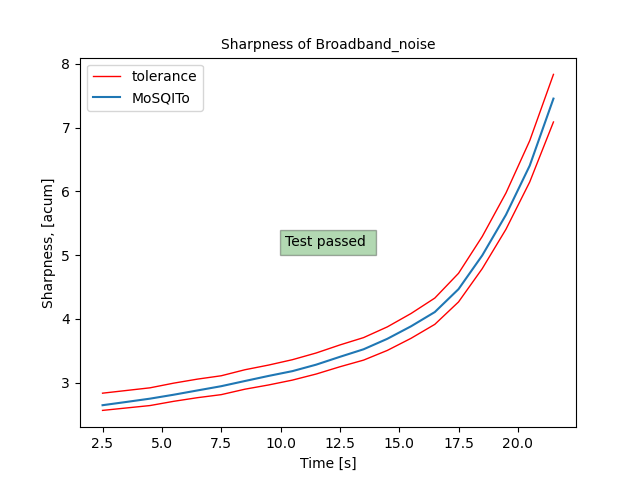
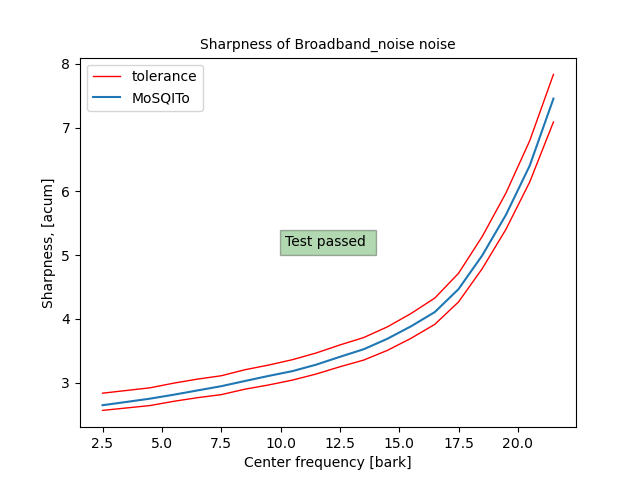
[CC] plots legend correction

Changed region(s): [[0.3125, 0.0625, 0.7188, 0.125], [0.375, 0.9375, 0.6562, 1.0]]

diff --git a/mosqito/validations/sharpness/validation_sharpness_din.py b/mosqito/validations/sharpness/validation_sharpness_din.py
@@ -17,176 +17,176 @@ from mosqito.functions.sharpness.comp_sharpness import comp_sharpness
 from mosqito.functions.shared.load import load
 
     # Signals and results from DIN 45692_2009E, chapter 6
-broadband_noise = np.zeros((20), dtype = dict)
+broadband = np.zeros((20), dtype = dict)
 
-broadband_noise[0] = {
+broadband[0] = {
             "data_file": r"data\Check_signals_DIN_45692_(Schaerfe)\Broadband_noise(fo=10kHz_fu=variabel)\LC250.wav",
             "type": "Broadband_noise",
             "S": 2.70
         }
-broadband_noise[1] = {
+broadband[1] = {
             "data_file": r"data\Check_signals_DIN_45692_(Schaerfe)\Broadband_noise(fo=10kHz_fu=variabel)\LC350.wav",
             "S": 2.74
         }
-broadband_noise[2] = {
+broadband[2] = {
             "data_file": r"data\Check_signals_DIN_45692_(Schaerfe)\Broadband_noise(fo=10kHz_fu=variabel)\LC450.wav",
             "S": 2.78
         }
-broadband_noise[3] = {
+broadband[3] = {
             "data_file": r"data\Check_signals_DIN_45692_(Schaerfe)\Broadband_noise(fo=10kHz_fu=variabel)\LC570.wav",
             "S": 2.85
         }
-broadband_noise[4] = {
+broadband[4] = {
             "data_file": r"data\Check_signals_DIN_45692_(Schaerfe)\Broadband_noise(fo=10kHz_fu=variabel)\LC700.wav",
             "S": 2.91
         }
-broadband_noise[5] = {
+broadband[5] = {
             "data_file": r"data\Check_signals_DIN_45692_(Schaerfe)\Broadband_noise(fo=10kHz_fu=variabel)\LC840.wav",
             "S": 2.96
         }
-broadband_noise[6] = {
+broadband[6] = {
             "data_file": r"data\Check_signals_DIN_45692_(Schaerfe)\Broadband_noise(fo=10kHz_fu=variabel)\LC1000.wav",
             "S": 3.05
         }
-broadband_noise[7] = {
+broadband[7] = {
             "data_file": r"data\Check_signals_DIN_45692_(Schaerfe)\Broadband_noise(fo=10kHz_fu=variabel)\LC1170.wav",
             "S": 3.12
         }
-broadband_noise[8] = {
+broadband[8] = {
             "data_file": r"data\Check_signals_DIN_45692_(Schaerfe)\Broadband_noise(fo=10kHz_fu=variabel)\LC1370.wav",
             "S": 3.20
         }
-broadband_noise[9] = {
+broadband[9] = {
             "data_file": r"data\Check_signals_DIN_45692_(Schaerfe)\Broadband_noise(fo=10kHz_fu=variabel)\LC1600.wav",
             "S": 3.30
         }
-broadband_noise[10] = {
+broadband[10] = {
             "data_file": r"data\Check_signals_DIN_45692_(Schaerfe)\Broadband_noise(fo=10kHz_fu=variabel)\LC1850.wav",
             "S": 3.42
         }
-broadband_noise[11] = {
+broadband[11] = {
             "data_file": r"data\Check_signals_DIN_45692_(Schaerfe)\Broadband_noise(fo=10kHz_fu=variabel)\LC2150.wav",
             "S": 3.53
         }
-broadband_noise[12] = {
+broadband[12] = {
             "data_file": r"data\Check_signals_DIN_45692_(Schaerfe)\Broadband_noise(fo=10kHz_fu=variabel)\LC2500.wav",
             "S": 3.69
         }
-broadband_noise[13] = {
+broadband[13] = {
             "data_file": r"data\Check_signals_DIN_45692_(Schaerfe)\Broadband_noise(fo=10kHz_fu=variabel)\LC2900.wav",
             "S": 3.89
         }
-broadband_noise[14] = {
+broadband[14] = {
             "data_file": r"data\Check_signals_DIN_45692_(Schaerfe)\Broadband_noise(fo=10kHz_fu=variabel)\LC3400.wav",
             "S": 4.12
         }
-broadband_noise[15] = {
+broadband[15] = {
             "data_file": r"data\Check_signals_DIN_45692_(Schaerfe)\Broadband_noise(fo=10kHz_fu=variabel)\LC4000.wav",
             "S": 4.49
         }
-broadband_noise[16] = {
+broadband[16] = {
             "data_file": r"data\Check_signals_DIN_45692_(Schaerfe)\Broadband_noise(fo=10kHz_fu=variabel)\LC4800.wav",
             "S": 5.04
         }
-broadband_noise[17] = {
+broadband[17] = {
             "data_file": r"data\Check_signals_DIN_45692_(Schaerfe)\Broadband_noise(fo=10kHz_fu=variabel)\LC5800.wav",
             "S": 5.69
         }
-broadband_noise[18] = {
+broadband[18] = {
             "data_file": r"data\Check_signals_DIN_45692_(Schaerfe)\Broadband_noise(fo=10kHz_fu=variabel)\LC7000.wav",
             "S": 6.47
         }
-broadband_noise[19] = {
+broadband[19] = {
             "data_file": r"data\Check_signals_DIN_45692_(Schaerfe)\Broadband_noise(fo=10kHz_fu=variabel)\LC8500.wav",
             "S": 7.46
         }
 
 # Test signal as input for sharpness (from DIN 45692)
 
-narrowband_noise = np.zeros((21), dtype = dict)
+narrowband = np.zeros((21), dtype = dict)
 
-narrowband_noise[0] = {
+narrowband[0] = {
             "data_file": r"data\Check_signals_DIN_45692_(Schaerfe)\Narrowband_noise (frequency group width)\BP250.wav",
             "type": "Narrowband_noise",
             "S": 0.38
         }
-narrowband_noise[1] = {
+narrowband[1] = {
             "data_file": r"data\Check_signals_DIN_45692_(Schaerfe)\Narrowband_noise (frequency group width)\BP350.wav",
             "S": 0.49
         }
-narrowband_noise[2] = {
+narrowband[2] = {
             "data_file": r"data\Check_signals_DIN_45692_(Schaerfe)\Narrowband_noise (frequency group width)\BP450.wav",
             "S": 0.6
         }
-narrowband_noise[3] = {
+narrowband[3] = {
             "data_file": r"data\Check_signals_DIN_45692_(Schaerfe)\Narrowband_noise (frequency group width)\BP570.wav",
             "S": 0.71
         }
-narrowband_noise[4] = {
+narrowband[4] = {
             "data_file": r"data\Check_signals_DIN_45692_(Schaerfe)\Narrowband_noise (frequency group width)\BP700.wav",
             "S": 0.82
         }
-narrowband_noise[5] = {
+narrowband[5] = {
             "data_file": r"data\Check_signals_DIN_45692_(Schaerfe)\Narrowband_noise (frequency group width)\BP840.wav",
             "S": 0.93
         }
-narrowband_noise[6] = {
+narrowband[6] = {
             "data_file": r"data\Check_signals_DIN_45692_(Schaerfe)\Narrowband_noise (frequency group width)\BP1000.wav",
             "S": 1.00
         }
-narrowband_noise[7] = {
+narrowband[7] = {
             "data_file": r"data\Check_signals_DIN_45692_(Schaerfe)\Narrowband_noise (frequency group width)\BP1170.wav",
             "S": 1.13
         }
-narrowband_noise[8] = {
+narrowband[8] = {
             "data_file": r"data\Check_signals_DIN_45692_(Schaerfe)\Narrowband_noise (frequency group width)\BP1370.wav",
             "S": 1.26
         }
-narrowband_noise[9] = {
+narrowband[9] = {
             "data_file": r"data\Check_signals_DIN_45692_(Schaerfe)\Narrowband_noise (frequency group width)\BP1600.wav",
             "S": 1.35
         }
-narrowband_noise[10] = {
+narrowband[10] = {
             "data_file": r"data\Check_signals_DIN_45692_(Schaerfe)\Narrowband_noise (frequency group width)\BP1850.wav",
             "S": 1.49
         }
-narrowband_noise[11] = {
+narrowband[11] = {
             "data_file": r"data\Check_signals_DIN_45692_(Schaerfe)\Narrowband_noise (frequency group width)\BP2150.wav",
             "S": 1.64
         }
-narrowband_noise[12] = {
+narrowband[12] = {
             "data_file": r"data\Check_signals_DIN_45692_(Schaerfe)\Narrowband_noise (frequency group width)\BP2500.wav",
             "S": 1.78
         }
-narrowband_noise[13] = {
+narrowband[13] = {
             "data_file": r"data\Check_signals_DIN_45692_(Schaerfe)\Narrowband_noise (frequency group width)\BP2900.wav",
             "S": 2.06
         }
-narrowband_noise[14] = {
+narrowband[14] = {
             "data_file": r"data\Check_signals_DIN_45692_(Schaerfe)\Narrowband_noise (frequency group width)\BP3400.wav",
             "S": 2.40
         }
-narrowband_noise[15] = {
+narrowband[15] = {
             "data_file": r"data\Check_signals_DIN_45692_(Schaerfe)\Narrowband_noise (frequency group width)\BP4000.wav",
             "S": 2.82
         }
-narrowband_noise[16] = {
+narrowband[16] = {
             "data_file": r"data\Check_signals_DIN_45692_(Schaerfe)\Narrowband_noise (frequency group width)\BP4800.wav",
             "S": 3.48
         }
-narrowband_noise[17] = {
+narrowband[17] = {
             "data_file": r"data\Check_signals_DIN_45692_(Schaerfe)\Narrowband_noise (frequency group width)\BP5800.wav",
             "S": 4.43
         }
-narrowband_noise[18] = {
+narrowband[18] = {
             "data_file": r"data\Check_signals_DIN_45692_(Schaerfe)\Narrowband_noise (frequency group width)\BP7000.wav",
             "S": 5.52
         }
-narrowband_noise[19] = {
+narrowband[19] = {
             "data_file": r"data\Check_signals_DIN_45692_(Schaerfe)\Narrowband_noise (frequency group width)\BP8500.wav",
             "S": 6.81
         }
-narrowband_noise[20] = {
+narrowband[20] = {
             "data_file": r"data\Check_signals_DIN_45692_(Schaerfe)\Narrowband_noise (frequency group width)\BP10500.wav",
             "S": 8.55
         }
@@ -284,9 +284,9 @@ def check_compliance(sharpness, reference, noise_type):
     
     # Plot the calculated sharpness
     plt.plot(barks, sharpness, label="MoSQITo")
-    plt.title("Sharpness of " + noise_type ,fontsize=10)
+    plt.title("Sharpness of " + noise_type + " noise" ,fontsize=10)
     plt.legend()
-    plt.xlabel("Time [s]")
+    plt.xlabel("Center frequency [bark]")
     plt.ylabel("Sharpness, [acum]")
 
     plt.savefig(
@@ -304,8 +304,8 @@ def check_compliance(sharpness, reference, noise_type):
 if __name__ == "__main__":
 
 # generate compliance plot for broadband noise 
-    validation_sharpness(broadband_noise)
-    validation_sharpness(narrowband_noise)
+    validation_sharpness(broadband)
+    validation_sharpness(narrowband)
         
     
     
